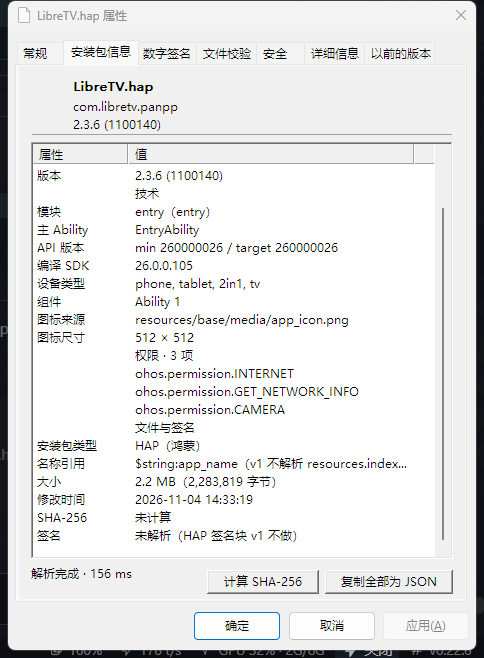
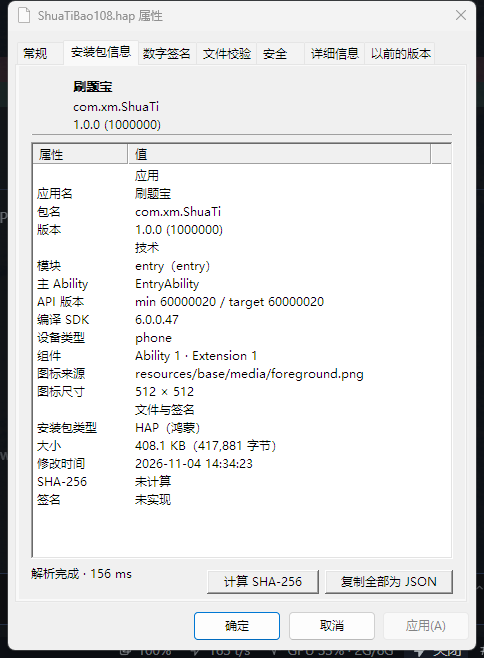
docs: ADR-0006 格式范围收敛 + R-0013 + 文档同步
新增 ADR-0006：v1 只支持 .apk/.xapk/.apks/.apkm/.hap；.aab 不做（有实际需求再开 ADR），
.ipa/.appx/.msix 不做（附 2026-11-04 的现状调研与否定方案）。

同步：formats.md 三节标"不实现"但保留结构知识、§9 改为实现状态；roadmap 的 M4 收敛
（M4a+M4d 完成，其余子阶段不做，M5 去掉 MSIX 评估）；architecture 的支持扩展/静态图标表/
测试固件行；design.md 的静态图标与 MSIX 待议项；README 的目标、阶段行、M4d 现状与下一步。

verification.md 追加 R-0013：应用名解析的结构依据、两个实测坑、2/2 交叉校验、界面的
"未实现"口径、以及仍未验证项（多语言限定词、Restool v1 老索引、id→文件名映射、.hsp）。
更新 m4d-hap-propsheet.png（刷题宝真名 + 签名"未实现"）。

diff --git a/docs/roadmap.md b/docs/roadmap.md
@@ -11,7 +11,7 @@ flowchart LR
     M0["M0 文档与基线<br/>(当前)"] --> M1["M1 缩略图闭环<br/>仅 .apk"]
     M1 --> M2["M2 解析核心 + worker<br/>JSON v1"]
     M2 --> M3["M3 属性页<br/>异步填充"]
-    M3 --> M4["M4 全格式<br/>APKS/AAB/IPA/HAP/APPX"]
+    M3 --> M4["M4 格式<br/>APKS/HAP"]
     M4 --> M5["M5 交付打磨<br/>安装器/签名/回归"]
 ```
 
@@ -21,7 +21,7 @@ flowchart LR
 | M1 | APK 缩略图最小闭环 | `apkthumb.dll` + 注册脚本 + 缓存 | 3–4 d | ✅ 完成（2026-11-03，记录见 [verification.md R-0002](verification.md)） |
 | M2 | 解析核心与 worker | `apkinfo.exe` + JSON schema v1 + 测试固件 | 2–3 d | ✅ 完成（2026-11-04）：JSON + aapt2 交叉校验、TD-001 关闭、签名块、features、`splits`（随 M4a）全部落地；仅剩 TD-002 与 V8 回归 |
 | M3 | 属性页 | `apkprop.dll`（原生控件、异步、错误态、复制、可折叠分组） | 2–3 d | ✅ 用户已验收（[R-0006](verification.md)·[R-0009](verification.md)·[R-0010](verification.md)）；DPI 由布局单测覆盖（[R-0011](verification.md)） |
-| M4 | 全格式 | APKS/XAPK/APKM → AAB → IPA → HAP → APPX | 6–9 d | 🟡 M4a ✅（.xapk/.apks/.apkm，[R-0011](verification.md)）· M4d ✅（.hap，[R-0012](verification.md)）；M4b/M4c/M4e 未开始 |
+| M4 | 格式 | `.apk` 家族 + `.hap`（其余格式按 [ADR-0006](adr/0006-format-scope-cut.md) 不做） | 6–9 d → 实做 2–3 d | ✅ 完成：M4a（[R-0011](verification.md)）· M4d（[R-0012](verification.md)/[R-0013](verification.md)） |
 | M5 | 交付打磨 | 安装器、签名、i18n、诊断、回归 | 3–4 d | ⬜ |
 
 **M0 评审记录（2026-11-03）**——三项决策已确认，后续实现不得再讨论：
@@ -224,7 +224,9 @@ flowchart LR
 | 150%/200% DPI、100 次开关句柄、卸载 diff | ✅ DPI 由布局纯函数 20,832 组合断言覆盖；100 次开关实测句柄无增长（[R-0011](verification.md)）；真实缩放渲染未做人眼确认 |
 | 中英双语 | ⬜ M5 |
 
-## M4 · 全格式
+## M4 · 全格式（范围已收敛，见 [ADR-0006](adr/0006-format-scope-cut.md)）
+
+> v1 只做 `.apk` 家族与 `.hap`；`.aab/.ipa/.appx/.msix` **不做**（用户 2026-11-04 决定）。
 
 **M4a 实施记录（2026-11-04，记录 [R-0011](verification.md)）**
 
@@ -249,29 +251,30 @@ flowchart LR
 - 判定顺序改成 HAP 优先：根上有 `module.json` 且没有 `AndroidManifest.xml` → HAP；否则走 APK / 容器。
   三条路径（缩略图、worker、属性页）仍然共用同一份判定与同一个 `ZipReader`。
 - JSON 增加 `hap` 块；**不把鸿蒙 API 号塞进 `app.minSdk/targetSdk`**；属性页技术组显示
-  模块 / 主 Ability / API 版本 / 编译 SDK / 设备类型 / Ability 计数，文件组显示「安装包类型 HAP（鸿蒙）」
-  与「名称引用 `$string:app_name`（v1 不解析）」。
+  模块 / 主 Ability / API 版本 / 编译 SDK / 设备类型 / Ability 计数，文件组显示「安装包类型 HAP（鸿蒙）」。
 - `register.ps1` 默认扩展名加 `.hap`。新增 `tests/verify_hap.py`（对 `module.json` + 图标字节/尺寸交叉校验）。
-- **v1 明确不做**：`$string:` 标签解析（要解 `resources.index`，RestoolV2 私有格式）、layered icon 的合成
-  （只取 foreground 层）、`.hsp`/`.app` 多模块套件。拿到更多样本前不要扩大承诺。
+- **应用名（R-0013，2026-11-04）**：`$string:` 引用改成去 `resources.index`（RestoolV2）取默认配置的值，
+  来源优先 `mainElement` 那个 ability 的 `label`（鸿蒙桌面显示的是它），再退 `app.label`。
+- **v1 不做**：layered icon 的合成（只取 foreground 层）、`.hsp`/`.app` 多模块套件、HAP 签名块。
 
 按"复用成本从低到高"排序，每个子阶段独立验收：
 
 | 子阶段 | 内容 | 估时 | 关键验收 |
 | --- | --- | --- | --- |
 | M4a | `.apks/.xapk/.apkm`（外层 ZIP + base.apk；`icon.png` 兜底） | 1 d | ✅ 2026-11-04（[R-0011](verification.md)）：2 个真实 xapk 与 aapt2 一致、Explorer 里出图标、属性页有「分包」组 |
-| M4b | `.aab`（`BundleConfig.pb`、**protobuf manifest**、`resources.pb`） | 2–3 d | 3 个 AAB：包名/版本/模块列表正确；图标与 bundletool 生成的一致 |
-| M4c | `.ipa`（binary plist；AppIcon 约定名 → iTunesArtwork → `Assets.car` 回退） | 2 d | 3 个 IPA：bundleId/版本正确；≥ 2 个能出高清图标（car 失败要能回退） |
-| M4d | `.hap`（`module.json`；`$media:` → `resources.index` 启发式 → 索引解析） | 2–3 d | ✅ 2026-11-04（[R-0012](verification.md)）：2 个真实 HAP 与 `module.json` 一致、Explorer 出图标、属性页有模块/API/权限组；`$string:` 标签与 layered 合成未做 |
-| M4e | `.appx/.msix`（`AppxManifest.xml` + 限定符选图） | 0.5 d | 2 个包正确 |
+| M4b | `.aab`（protobuf manifest、`resources.pb`） | — | **不做**（[ADR-0006](adr/0006-format-scope-cut.md)：Play 发布格式、不能直接安装；有实际需求再开） |
+| M4c | `.ipa`（binary plist / `Assets.car`） | — | **不做**（[ADR-0006](adr/0006-format-scope-cut.md)：苹果生态） |
+| M4d | `.hap`（`module.json`；`$media:` → `resources.index` 启发式 → 索引解析） | 2–3 d | ✅ 2026-11-04（[R-0012](verification.md)）：2 个真实 HAP 与 `module.json` 一致、Explorer 出图标、属性页有模块/API/权限组、应用名解析为真名（R-0013） |
+| M4e | `.appx/.msix` | — | **不做**（[ADR-0006](adr/0006-format-scope-cut.md)：已安装包图标由系统提供） |
 
 **验收（跨格式）**
 
 - 一个混合目录（每种格式 ≥ 5 个）滚大图标视图：不崩、无卡顿尖峰（ETW 里单次 `GetThumbnail` ≤ 300 ms）；
-- 每种格式的属性页字段与对应官方工具（bundletool / aapt2 / plutil / hvigor）抽查一致；
+- 每种格式的属性页字段与对应官方工具（aapt2 / 容器 ZIP 与 module.json）抽查一致；
 - 格式识别不依赖扩展名（嗅探容器），扩展名只用于注册表路由。
 
-**退出条件**：六类格式的"图标 + 属性页"都能工作，负缓存与错误文案覆盖到新格式。
+**退出条件**：v1 范围（`.apk/.xapk/.apks/.apkm/.hap`）的"图标 + 属性页"都能工作，负缓存与错误文案覆盖到新格式。
+**M4 状态**：✅ 完成（M4a R-0011 · M4d R-0012/R-0013；其余子阶段按 ADR-0006 不做）。
 
 ## M5 · 交付打磨
 
@@ -282,7 +285,7 @@ flowchart LR
 3. 诊断开关（`%TEMP%\apk-shell-ext.debug.on` 时写日志，参照果核的做法）。
 4. 中英文资源；高 DPI 全面回归。
 5. 缓存清理工具（`tools\clearcache.ps1` 或 `apkinfo.exe --clear-cache`）。
-6. 评估 `IExtractIcon`（小图标视图）与 MSIX：只做结论，不默认实现（需改 ADR-0001）。
+6. 评估 `IExtractIcon`（小图标视图）：只做结论，不默认实现（需改 ADR-0001）。
 7. 更新全部文档与验收记录。
 
 **验收**

diff --git a/docs/formats.md b/docs/formats.md
@@ -8,14 +8,16 @@
 | 格式 | 容器 | manifest | 资源表 | 图标位置 | 难度 | 阶段 |
 | --- | --- | --- | --- | --- | --- | --- |
 | `.apk` | ZIP | `AndroidManifest.xml`（**二进制 AXML**） | `resources.arsc`（二进制） | `res/mipmap-*/ic_launcher.*`，adaptive 在 `mipmap-anydpi-v26/*.xml` | 中 | M1/M2 |
-| `.apks` / `.xapk` / `.apkm` | ZIP 套 ZIP | 内层 `base.apk` | 同上 | 同上（取 base） | 低（多一层） | M4 |
-| `.aab` | ZIP | `base/manifest/AndroidManifest.xml`（**protobuf**，Bundle 格式） | `base/resources.pb`（protobuf） | `base/res/mipmap-*/…`，索引在 `resources.pb` | **高** | M4 |
-| `.ipa` | ZIP | `Payload/*.app/Info.plist`（XML 或 binary plist） | 无 | `Payload/*.app/AppIcon*.png` 或 `Assets.car` | 中高（`.car`） | M4 |
-| `.hap` | ZIP | `module.json`（JSON） | `resources.index`（**鸿蒙二进制索引**） | `resources/base/media/*.png`，由 `$media:` 引用 | 高 | M4 |
-| `.appx` / `.msix` | ZIP | `AppxManifest.xml`（XML） | 无 | `Assets\Square44x44Logo*.png`（含 scale/contrast 限定符） | 低 | M4 |
-| `.appxbundle` | ZIP 套 ZIP | 内层 `*_x64.appx` | 无 | 同上 | 低 | M4（可选） |
+| `.apks` / `.xapk` / `.apkm` | ZIP 套 ZIP | 内层 `base.apk` | 同上 | 同上（取 base） | 低（多一层） | M4a ✅ |
+| `.aab` | ZIP | `base/manifest/AndroidManifest.xml`（**protobuf**，Bundle 格式） | `base/resources.pb`（protobuf） | `base/res/mipmap-*/…`，索引在 `resources.pb` | 高 | **不做**（[ADR-0006](adr/0006-format-scope-cut.md)） |
+| `.ipa` | ZIP | `Payload/*.app/Info.plist`（XML 或 binary plist） | 无 | `Payload/*.app/AppIcon*.png` 或 `Assets.car` | 中高（`.car`） | **不做**（[ADR-0006](adr/0006-format-scope-cut.md)） |
+| `.hap` | ZIP | `module.json`（JSON） | `resources.index`（**鸿蒙二进制索引**） | `resources/base/media/*.png`，由 `$media:` 引用 | 中（RestoolV2 索引） | M4d ✅ |
+| `.appx` / `.msix` | ZIP | `AppxManifest.xml`（XML） | 无 | `Assets\Square44x44Logo*.png`（含 scale/contrast 限定符） | 低 | **不做**（[ADR-0006](adr/0006-format-scope-cut.md)） |
+| `.appxbundle` | ZIP 套 ZIP | 内层 `*_x64.appx` | 无 | 同上 | 低 | **不做**（[ADR-0006](adr/0006-format-scope-cut.md)） |
 
-**关键差异**：AAB 的 manifest 不是 AXML 而是 **protobuf**；HAP 的资源不是 `arsc` 而是鸿蒙自己的 `resources.index`。这两条决定了"一个 ZIP+AXML 解析器通吃"的假设不成立，必须分开写 reader。
+**关键差异**：HAP 的资源不是 `arsc` 而是鸿蒙自己的 `resources.index`（RestoolV2），必须有独立 reader。
+**范围**：v1 只实现 `.apk` 家族与 `.hap`；`.aab/.ipa/.appx/.msix` 由 [ADR-0006](adr/0006-format-scope-cut.md) 明确不做，
+下面几节的结构知识保留，供将来真要做时不重新调研。
 
 ## 2. APK（M1/M2 主战场）
 
@@ -43,14 +45,19 @@
   `PUBG ...APKPure.xapk`（1.25 GB，base 107 MB + 1.1 GB obb，只读 base）。两个包与 `aapt2 dump badging`
   的 package/versionCode/versionName 完全一致（`tests/verify_container.py`）。
 
-## 3. AAB（Android App Bundle）
+## 3. AAB（Android App Bundle）——**不实现**（[ADR-0006](adr/0006-format-scope-cut.md)）
+
+> 保留本节只为记录结构；v1 不读 AAB。用户 2026-11-04 决定：AAB 是 Play 的发布格式、
+> 不能直接安装，分发侧已经是 `.xapk/.apkm/.apks`（已支持），磁盘上只剩开发者构建产物。
 
 - 结构：`BundleConfig.pb` + `base/manifest/AndroidManifest.xml` + `base/resources.pb` + `base/res/…` + 各模块目录（`feature1/…`）。
 - **manifest 与资源表都是 protobuf**（`Resources.proto` / `Bundle` 的 `XmlNode` 定义），不能用 AXML 解析器。方案：把 `.proto` 编译进 worker（`protobuf-lite` 或 hand-written decoder），M4 先只支持 `base` 模块。
 - 图标：manifest 里 `android:icon` 同样是资源引用 → 在 `resources.pb` 里查 ID → 得到 `base/res/mipmap-*/…` 路径 → 从 ZIP 读。
 - 属性页可额外显示：模块列表（base/feature）、`delivery` 条件（设备/语言/密度）。
 
-## 4. IPA
+## 4. IPA——**不实现**（[ADR-0006](adr/0006-format-scope-cut.md)）
+
+> 保留本节只为记录结构；v1 不读 IPA（苹果生态，Windows 上只出现在助手/越狱工具目录）。
 
 - `Payload/<Name>.app/Info.plist`：可能是 XML plist，也可能是 **binary plist**（`bplist00`）；两种都要解。
 - 图标优先级：`CFBundleIcons` / `CFBundleIcons~ipad` 里声明的文件名 → `AppIcon60x60@2x.png` 等约定名 → `iTunesArtwork@2x` → **`Assets.car`**（编译后的资产目录，需解析 CgBI/asset catalog 格式）。
@@ -82,7 +89,9 @@
   `entry-default-unsigned.hap`（`$media:app_icon` → app_icon 512²，2.3.6，3 条 ohos 权限，4 种设备类型）；
   两个包与 `module.json` 的交叉校验 2/2 一致（`tests/verify_hap.py`）。
 
-## 6. APPX / MSIX
+## 6. APPX / MSIX——**不实现**（[ADR-0006](adr/0006-format-scope-cut.md)）
+
+> 保留本节只为记录结构；v1 不读 APPX/MSIX（已安装的商店应用图标由系统提供）。
 
 - `AppxManifest.xml` 是普通 XML（`uap:VisualElements` 的 `Square44x44Logo`）。
 - 图标资产带限定符：`Assets\Square44x44Logo.scale-200.png`、`.targetsize-44_altform-unplated.png` 等；选取规则：优先 `targetsize-<n>` 接近 44，其次 `scale-400/200/100`。
@@ -112,13 +121,12 @@ candidates = 各格式 reader 产出的 (资源路径, 密度/尺寸, 是否 ada
 | 名称非法字符 | 一律按 ordinal 处理，不落盘 | 防 NTFS 特殊名/ADS |
 | 解析总时限 | worker 8 s 自杀 | 防挂死 |
 
-## 9. 实现优先级
+## 9. 实现状态（v1 收口）
 
-| 顺序 | 格式 | 理由 |
+| 顺序 | 格式 | 状态 |
 | --- | --- | --- |
-| 1 | `.apk` | 覆盖 80% 场景，且 M1 就要用 |
-| 2 | `.apks/.xapk/.apkm` | 只多一层 ZIP，复用 APK reader |
-| 3 | `.aab` | 开发者常用，但需要 protobuf，单独排期 |
-| 4 | `.ipa` | 图标来源复杂（Assets.car），先做回退路径 |
-| 5 | `.hap` | 资源索引非标准，先启发式 |
-| 6 | `.appx/.msix` | 最简单，顺手做 |
+| 1 | `.apk` | ✅ M1/M2（R-0002/R-0004/R-0005） |
+| 2 | `.apks/.xapk/.apkm` | ✅ M4a（R-0011） |
+| 3 | `.hap` | ✅ M4d（R-0012；应用名解析 R-0013） |
+| — | `.aab` | **不做**（ADR-0006；有实际需求再开） |
+| — | `.ipa` / `.appx` / `.msix` | **不做**（ADR-0006） |

diff --git a/docs/adr/0006-format-scope-cut.md b/docs/adr/0006-format-scope-cut.md
@@ -1,0 +1,56 @@
+# ADR-0006 · 格式范围收敛：不做 `.aab` / `.ipa` / `.appx` / `.msix`
+
+- 状态：**已采纳**（范围裁剪，M4 收敛）
+- 日期：2026-11-04
+- 相关：[design.md §7](../design.md)、[formats.md §3/§4/§6](../formats.md)、[roadmap.md M4](../roadmap.md)、[verification.md R-0011/R-0012/R-0013](../verification.md)
+
+## 背景
+
+M0 的格式矩阵列了七类安装包（APK 家族、AAB、IPA、HAP、APPX/MSIX），M4 原计划逐个补齐。
+M4a（`.xapk/.apks/.apkm`）与 M4d（`.hap`）交付后，用户 2026-11-04 明确：
+
+- `.ipa` 属苹果生态，做这类文件的人必然在 macOS 或用助手类工具，不在本扩展的目标场景；
+- `.appx/.msix` "应不在计划功能内"（`design.md §7` 当初就把它写成"用户场景少"的待议项）；
+- `.aab` 目前不常见，等真有需求再说。
+
+补充事实（2026-11-04 调研，用于记录判断依据，不是猜测）：
+
+| 格式 | 现状 |
+| --- | --- |
+| `.aab` | Google Play 自 2021-08 起要求新应用用 AAB 发布，2023-06-30 起电视应用更新也必须是 AAB；**AAB 是发布格式、不能直接安装**，设备侧由 Play 下发 split APK，第三方分发用的是 `.xapk/.apkm/.apks`（APKMirror 2020 起支持 split APK）。磁盘上出现 `.aab` 的场景基本只有开发者本地构建产物 |
+| `.ipa` | Apple 生态；Windows 上只出现在越狱/助手工具的工作目录 |
+| `.appx/.msix` | 已安装的商店应用图标由系统提供；独立的 `.msix` 文件在普通用户目录罕见 |
+
+## 决策
+
+1. **v1 支持的扩展名固定为五个**：`.apk .xapk .apks .apkm .hap`（注册表、缩略图、属性页一致）。
+2. `.aab` **不做**；只有出现"本机确实有 `.aab` 要看图标"的实际需求时，才新开 ADR 并单独排期。
+3. `.ipa`、`.appx`、`.msix` **不做**，也不再保留其静态图标设计（M5 的"每格式一枚 ico"从 5 枚降为 3 枚：APK / XAPK / HAP）。
+4. `formats.md` 里这三类格式的**结构知识保留**（以后真要做时不用重新调研），但每节必须标明"不实现（ADR-0006）"。
+5. M4 的验收范围随之收敛为 M4a + M4d，两者均已交付（R-0011、R-0012/R-0013）。
+
+## 后果
+
+**正面**
+
+- 剩余工作量从"M4b/M4c/M4e 共 4.5–5.5 人日"直接归零，M4 收敛完成，项目进入 M5。
+- 不再需要为三种格式准备样本与测试固件，`formats.md §8` 的限额也不必再为 AAB 的 protobuf 扩张。
+- 用户界面承诺与实现一致：注册表里只有真能解析的扩展名。
+
+**负面 / 需要记住的**
+
+- 若将来要支持 AAB，成本仍是剩余格式里最高的（protobuf manifest + `resources.pb`，2–3 人日），且必须新开 ADR。
+- 小图标 / 列表视图只做 3 枚静态 ico；拿到 `.aab`/`.ipa`/`.appx` 文件时它们保持系统默认图标。
+
+## 替代方案与被否原因
+
+| 方案 | 否决原因 |
+| --- | --- |
+| 继续按 M4 原计划补 AAB | 收益是"开发者构建产物能看图标"，但样本与真实需求都不存在；成本 2–3 天且是剩余格式里最贵的 |
+| 只做 AAB 的"轻量版"（读 `BundleConfig.pb` 显示包名、不出图标） | 图标是缩略图扩展的核心价值，半成品会误导用户 |
+| APPX 顺手做（原估 0.5 天） | 用户明确说不在计划内；且商店包已安装后系统自己会显示图标 |
+
+## 修订条件
+
+- 出现真实的 `.aab` / `.ipa` / `.appx` 使用场景（用户提供样本并说明用途）→ 新开 ADR，编号递增；本 ADR 不改结论。
+- 若要恢复静态图标，仅需注册表 + 图标资源，不动解析代码路径（不违反 ADR-0001/0002）。

diff --git a/docs/adr/README.md b/docs/adr/README.md
@@ -10,6 +10,7 @@
 | [0003](0003-out-of-proc-parser.md) | 全量解析放独立 worker 进程，DLL 只做 UI/IPC | 已采纳 | M2/M3 |
 | [0004](0004-stack-and-dependency-boundary.md) | C++20 / MSVC / CMake / 静态 CRT / WTL；禁止 MFC、Qt、.NET、自有解码器 | 已采纳（禁止项） | M1 |
 | [0005](0005-isolated-thumbnail-host-and-stream-input.md) | 缩略图在 dllhost 隔离宿主里跑、输入是 IStream；解析核心改为 ByteSource，流模式缓存键含中央目录摘要 | 已采纳（M1 实测得出） | M1 |
+| [0006](0006-format-scope-cut.md) | 格式范围收敛：只支持 `.apk/.xapk/.apks/.apkm/.hap`，**不做** `.aab/.ipa/.appx/.msix` | 已采纳（2026-11-04） | M4 |
 
 ## 写作规则
 
